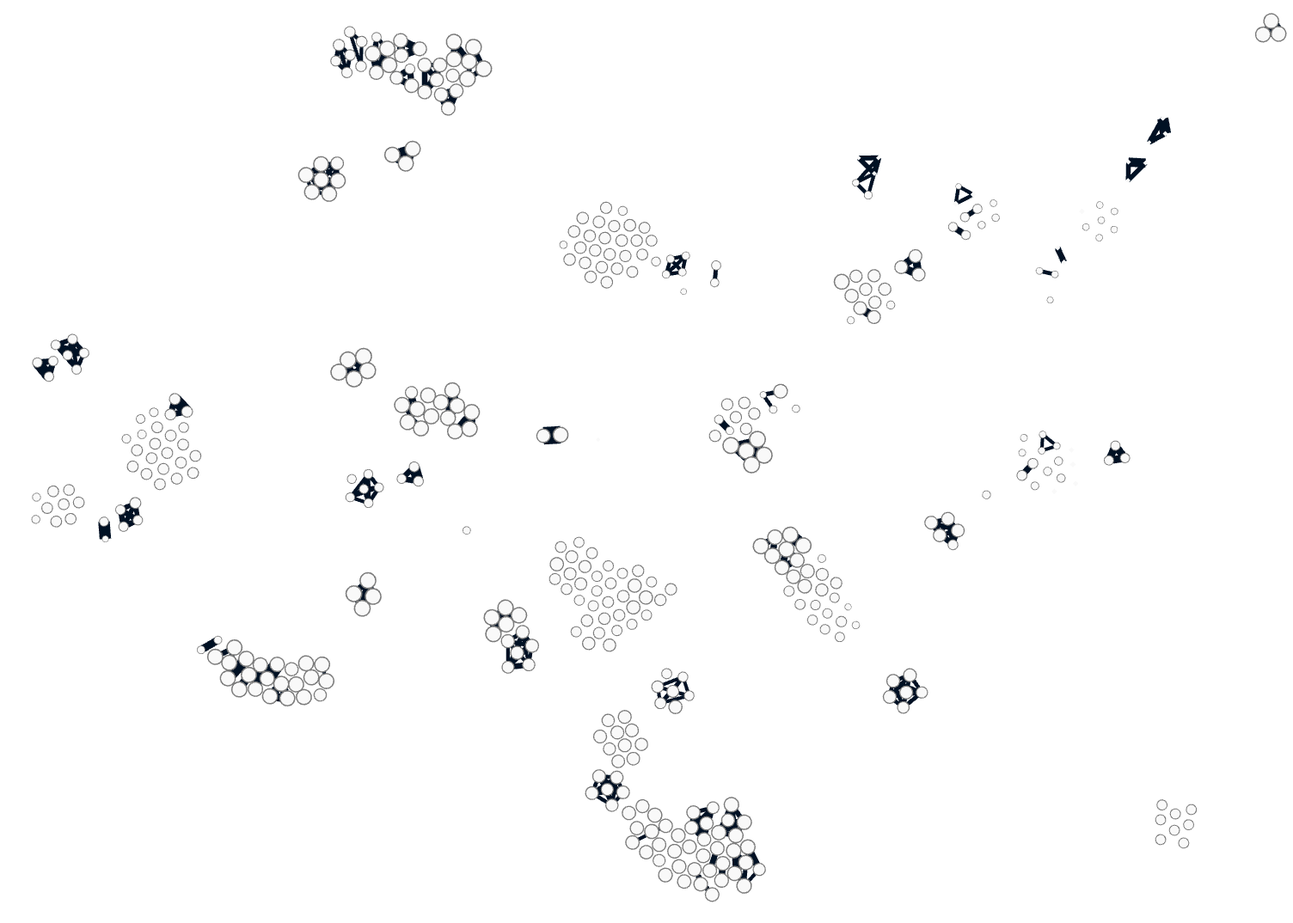
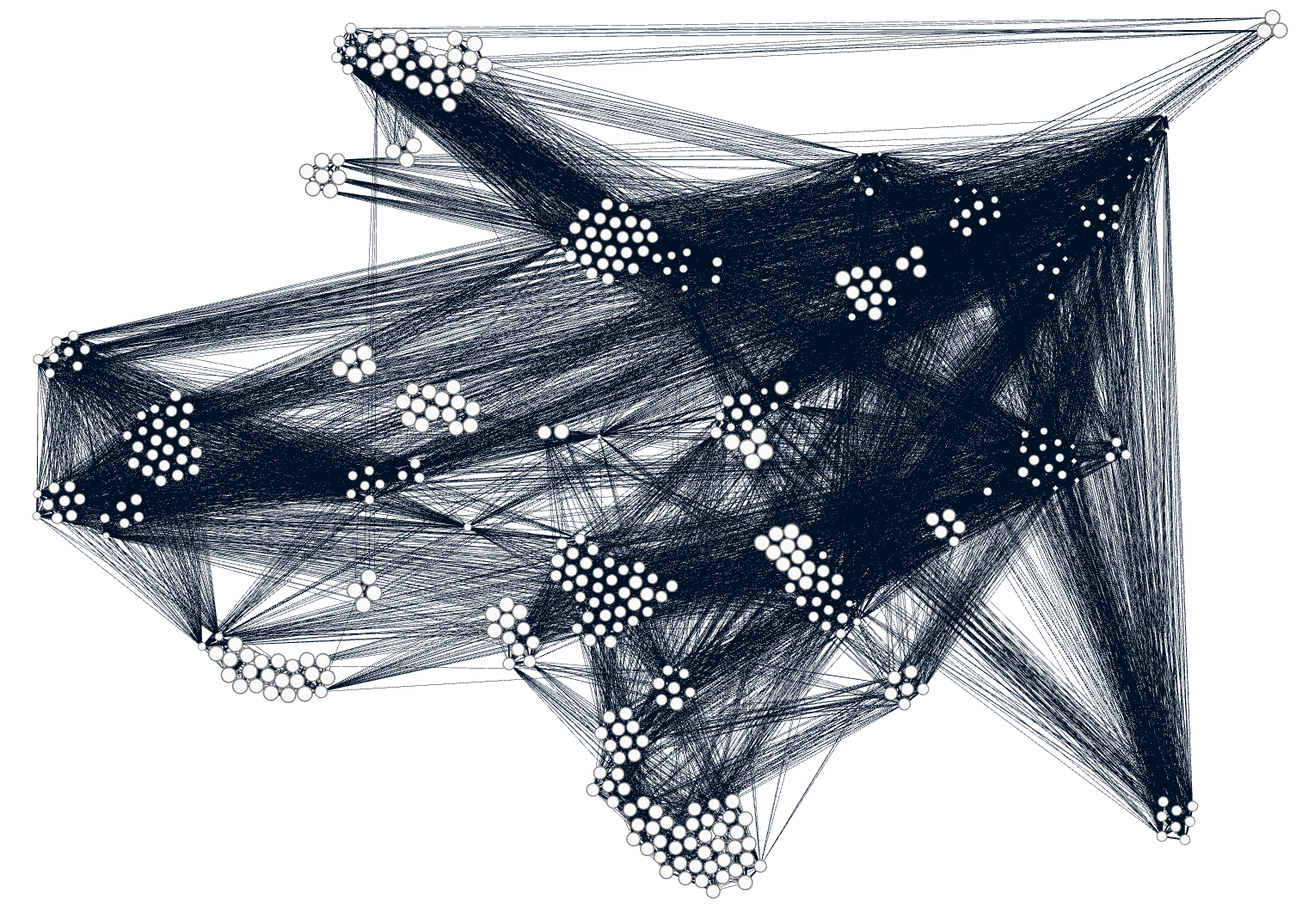
wk

diff --git a/mechanism_lumping/infomap.tex b/mechanism_lumping/infomap.tex
@@ -1,6 +1,6 @@
 
 \section{Graph based reduction}
-It has been shown that the graph-based representation of the atmospheric chemical network proves useful in both the visual and mathematical analysis of simulation results (\autoref{chaptervis,chaptermetric}). It therefore follows that the network representation of mechanism may also have its uses in the simplification, and thus reduction, of chemical complexity.  This section will outline the basic methods of modularity (or clustering) detection with the graph framework, the different methods in which this may be done and eventually apply it to a case example representative of the chemistry within the London environment. 
+It has been shown that the graph-based representation of the atmospheric chemical network proves useful in both the visual and mathematical analysis of simulation results (\autoref{chaptervis,chaptermetric}). It therefore follows that the network representation of mechanism may also have its uses in the simplification, and thus reduction, of chemical complexity.  This section will outline the basic methods of modularity (or clustering) detection with the graph framework, the different methods in which this may be done and eventually apply it to a case example representative of the chemistry within the London environment.
 
 
 
@@ -25,26 +25,26 @@ We can use the graph structure to analyse changes of reactions or relationships 
 
 
  \subsection{Types of Graph Clustering}
-Unlike vector clustering algorithms (such as DBSCAN, UMAP and K-means, as discussed in SEV\autoref{veccluster}), graph clustering metrics do not rely on the spatial orientation of the data to determine groups or `clusters'. Instead these may partition the network into segments, group nodes by structual equivalence or explore the `flow' dynamics of the network. 
+Unlike vector clustering algorithms (such as DBSCAN, UMAP and K-means, as discussed in SEV\autoref{veccluster}), graph clustering metrics do not rely on the spatial orientation of the data to determine groups or `clusters'. Instead these may partition the network into segments, group nodes by structual equivalence or explore the `flow' dynamics of the network.
 
 Algorithms such as Label Propagation \citep{labelprop} and spinglass \citep{spinglass} work by randomly assigning nodes with a property or label. This property is then transferred to its neighbours. Other algorithms such as the nested block model can decompose a graph into clusters of like properties, \citep{communitygraph}. These are often grouped in the form of topological equivalence which can be either:
 \begin{itemize}
     \item[-]\textit{structual equivalence} - vertices are similar if they have like neighbours, \citep{strueq}.
-    \item[-]\textit{regular eqivalence} - retrieves nodes with similar connection patterns (e.g. parent - child node hierarchicl structures), \citep{regequiv}. 
+    \item[-]\textit{regular eqivalence} - retrieves nodes with similar connection patterns (e.g. parent - child node hierarchicl structures), \citep{regequiv}.
 \end{itemize}
-This works in a similar way to an autoencoder (ref auto \autoref{section}), where topological similarities are used to simplify (or encode) the network structure, in a way which it may be again decoded. 
+This works in a similar way to an autoencoder (ref auto \autoref{section}), where topological similarities are used to simplify (or encode) the network structure, in a way which it may be again decoded.
 
-Finally there exist a set of `flow' based models which use the network dynamics to determine the modularity of a network. These are discussed below. 
+Finally there exist a set of `flow' based models which use the network dynamics to determine the modularity of a network. These are discussed below.
 
 \subsection{Walk/Flow Based Clustering}
-As temporal networks result in a change (magnitude, or type) of relationships between items. Such changes in the network dynamics are encoded within the edges of a graph. To account for this, the primary function of random walk or `flow' algorithms is to capture the the changes between the real-world systems represented by the network. 
+As temporal networks result in a change (magnitude, or type) of relationships between items. Such changes in the network dynamics are encoded within the edges of a graph. To account for this, the primary function of random walk or `flow' algorithms is to capture the the changes between the real-world systems represented by the network.
 
-In (SECTION SILHO) the silhouette coefficient was discussed. This compares the vector position of clusters with regards to the distance of data points between them. Translating this to the graph framework, topological (graph) clustering defines a cluster, or module, as a region with a greater inter-cluster degree or density\footnote{The number of links or edges between items in the same group.} compared to their intra-cluster density\footnote{The number of edges to other clusters}. This results in a system, that if sorted by group, has more links between elements of the same group than with those in other groups - this can be seen within the sorted adjacency matrix in (Xhaapter 1 REF). 
+In (SECTION SILHO) the silhouette coefficient was discussed. This compares the vector position of clusters with regards to the distance of data points between them. Translating this to the graph framework, topological (graph) clustering defines a cluster, or module, as a region with a greater inter-cluster degree or density\footnote{The number of links or edges between items in the same group.} compared to their intra-cluster density\footnote{The number of edges to other clusters}. This results in a system, that if sorted by group, has more links between elements of the same group than with those in other groups - this can be seen within the sorted adjacency matrix in (Xhaapter 1 REF).
 
-Since flow based methods are more interested in the network dynamics, than structure, the number of links or density is replaces with the time a random `walker' spends `trapped' between a set of nodes. A real-wold analogy would be to view the flow of water in a slowly filling river, \autoref{fig:hpp}. Here a walker (or water molecle) traverses the entirety of the river/graph network, occasionally getting trapped between a set of nodes. Here although the water is still moving, it ends up spending more time going back and fort between a set of nodes, than exploring the rest of the network. It is these regions of stalled progress that form our network clusters.  
+Since flow based methods are more interested in the network dynamics, than structure, the number of links or density is replaces with the time a random `walker' spends `trapped' between a set of nodes. A real-wold analogy would be to view the flow of water in a slowly filling river, \autoref{fig:hpp}. Here a walker (or water molecle) traverses the entirety of the river/graph network, occasionally getting trapped between a set of nodes. Here although the water is still moving, it ends up spending more time going back and fort between a set of nodes, than exploring the rest of the network. It is these regions of stalled progress that form our network clusters.
 
 \begin{figure}[H]
-    \centering 
+    \centering
     \adjustbox{trim=0 2cm 0 1.4cm,clip}{\includegraphics[height=\textwidth,angle=-90]{fig/hpp-plans.pdf}}
 \caption{\textbf{The proposed plans for the change of the UK National Watersports Centre Whitewater Course (Holme Pierrepont).} Walk based clustering is analogous to the movement of a river. Clusters (or modules) are identified as areas where the `flow' becomes trapped, much like water in the pools immediately following a hydraulic jump. Source: \cite{hpp} }\label{fig:hpp}
 \end{figure}
@@ -54,19 +54,19 @@ The Loudvain is a hierarchical clustering algorith, this means that after each i
 
 Similar to the Loudvain algorithm is the \cite{infomap}'s Infomap. Here each node within the network is assigned its own module. These are then perturbed to neighbouring nodes should such a mode lead to a decrease in the map equation (a flow-based method which operates on system dynamics rather than structure - \citep{mapeqn}). The process is repeated until no further reductions are possible.
 
-TWO LEVEL 
+TWO LEVEL
 
 MULITLEVERL
 
 %Clustering algorithms seek to capture the intuitive notion that nodes should be connected to many nodes in the same community (intra-cluster density) but connected to few nodes in other communities (inter-cluster sparsity). We compare four clustering algorithms in this study. Each scales to networks of greater than one million nodes.
 
 % https://www.ncbi.nlm.nih.gov/pmc/articles/PMC4938516/
-% 
+%
 % The Infomap algorithm [18] is based on the principles of information theory. Infomap characterizes the problem of finding the optimal clustering of a graph as the problem of finding a description of minimum information of a random walk on the graph. The algorithm maximizes an objective function called the Minimum Description Length [19, 20], and in practice an acceptable approximation to the optimal solution can be found quickly. Previous studies have found Infomap’s performance to remain stable for networks with up to 100,000 nodes [3].
 
 % Modularity
 % The modularity of a graph compares the presence of each intra-cluster edge of the graph with the probability that that edge would exist in a random graph [23, 24]. Although modularity has been shown to have a resolution limit [25], some of the most popular clustering algorithms use it as an objective function [15, 16]. Modularity is given by Eq (1),
-% 
+%
 % ∑k(ekk−a2k
 
 % Analogously, the field-of-view limit marks an upper limit on the size of communities that Louvain and Infomap can detect [36]. Infomap’s lack of a resolution limit causes it to suffer acutely from the field-of-view limit and identify smaller clusters than Louvain identifies. In this way, the resolution limit and the field-of-view limit favor Louvain over Infomap in our experiments with large communities.
@@ -75,7 +75,7 @@ MULITLEVERL
 
 Although there are a wide range of availiable clustering technques, there are several reasons that the infomap method works well. The main two criterions in selecting an algorithm for grouping atmospheric reactions are that the algorithm can deal with a directed network (chemistry is directional) and that it needs to be able to handle temopral data (since concentration and photolysis conditions change with time, this plays an important role within the system). The infomap algorithm implements a directed approach, improving on the core loudvain core algorithm it is built upon. In addition to this it is able to implement a multi-level clustering approach which has been shown to capture nodel-layer interaction in temporal networks,\citep{infointermittent}.
 
-Using the intial conditions for London from the last chapter (\autoref{tab:icsmetric}), a spun up simulation run with the CRI v2.2 mechanism was run. Since this does not contain \ch{c5h11cho}, MVK, MACR or Limonene, these species are omitted from the initialisation. Following a spinup to steady state, a graph is generated for noon after 1 day of an unconstrained run. The infomap algorithm is then applied to the generated graph. 
+Using the intial conditions for London from the last chapter (\autoref{tab:icsmetric}), a spun up simulation run with the CRI v2.2 mechanism was run. Since this does not contain \ch{c5h11cho}, MVK, MACR or Limonene, these species are omitted from the initialisation. Following a spinup to steady state, a graph is generated for noon after 1 day of an unconstrained run. The infomap algorithm is then applied to the generated graph.
 
 The coursest level of clustering is shown in \autoref{fig:iml1}. Here nodes are coloured by their cluster, and approximate polygon hulls surround the nodes closest to the median cluster centre. Much like the findings in (CHAPTER STRT), it is seen that different sections of the graph network repesent different types of chemistry - for example hull 4 contains aromatic species, hull 2 contains the products of linear alkanes and hull 3 contains the terpines.
 
@@ -87,7 +87,7 @@ The coursest level of clustering is shown in \autoref{fig:iml1}. Here nodes are 
     \label{fig:iml1}
 \end{figure}
 
-Since the infomap provides a finer level of clustering which has originated from this, it is important to evaluate this. Using a graph-hull approach, as in \autoref{fig:iml1}, becomes cluttered and unusable. Instead a bubble plot may be used. Although this sacrafices the ability to view links, it allows for the complete overview of the hierarchical structure. In \autoref{fig:imbubble} shows the nested structure of each clustered group. In an electronic mail correspondance with \cite{correspondance} the origin of the naming convention of reduced species was explained. Using this, individual nodes are categoriesed by their prefixes. This allows the further categorisation of the chemistry withich has been grouped into a category. 
+Since the infomap provides a finer level of clustering which has originated from this, it is important to evaluate this. Using a graph-hull approach, as in \autoref{fig:iml1}, becomes cluttered and unusable. Instead a bubble plot may be used. Although this sacrafices the ability to view links, it allows for the complete overview of the hierarchical structure. In \autoref{fig:imbubble} shows the nested structure of each clustered group. In an electronic mail correspondance with \cite{correspondance} the origin of the naming convention of reduced species was explained. Using this, individual nodes are categoriesed by their prefixes. This allows the further categorisation of the chemistry withich has been grouped into a category.
 
 \begin{figure}[H]
   \centering
@@ -113,19 +113,19 @@ Branch 3 contains the monoterpenes. This can be seen in 3.\{2,5\} ($\alpha-$pine
 The \emph{\ce{RIxxO2}} prefix was originally used for the peroxy radicals iso (`i-') alkanes and their cabonyl products - branches 3.\{1,4\}, however they tend to mainly be used for smaller branched precursors which produce acetone (\ch{CH3COCH3}) as a majour product in their oxidation chain (branch 3.1). As acetone is a particularly unreactive carbonyl, the fact that it is water soluble means that they may be washed out of the atmosphere by precipitation, \citep{acetonerain}. This may has been seen to interrupt the ozone formation process under regional-scale photochemical smog conditions in north-western Europe [ - from M.Jenkins PAPER? do you know what this is ].
 
 
-Finally, since the CRI index is representative of the oxidation potential it is common to see speacies containing the CRI value within a cluster. Cluster typically contain a combination of carbonyl (\ch{R(=O)R'},\emph{CARBxx}), hydroperoxy (\ch{R-OOH},\emph{RxxOOH}), peroxy (\ch{ROO.}, \emph{\ce{RxxO2}}) and nitrate (\ch{R-ONO2},\emph{\ch{NO3}}) groups. For the lumped species, it can be common for an \ch{RO2} species to react with NO or \ch{NO3} to produce a carbonyl with a CRI index of two values lower. This can be attributed to the loss of an oxygen and the formation of a double bond? (what is the long reaction for the MCM, it seems les direct). Similarly a reaction with NO or \ch{ho2} can produce a hydroperoxy or nitrate species, which in turn react with OH to produce the an equivalent carbonyl.
+Finally, since the CRI index is representative of the oxidation potential it is common to see speacies containing the CRI value within a cluster. Cluster typically contain a combination of carbonyl (\ch{R(=O)R}',\emph{CARBxx}), hydroperoxy (\ch{R-OOH},\emph{RxxOOH}), peroxy (\ch{ROO.}, \emph{\ce{RxxO2}}) and nitrate (\ch{R-ONO2},\emph{\ch{NO3}}) groups. For the lumped species, it can be common for an \ch{RO2} species to react with NO or \ch{NO3} to produce a carbonyl with a CRI index of two values lower. This can be attributed to the loss of an oxygen and the formation of a double bond? (what is the long reaction for the MCM, it seems les direct). Similarly a reaction with NO or \ch{ho2} can produce a hydroperoxy or nitrate species, which in turn react with OH to produce the an equivalent carbonyl.
 
 
 %% good paper for introduction acetone
 
 \subsubsection{Inter and Intra links}
- Typically the quality of clustering can be assessed using the adjacency matrix of a graph. In sortting the axis by cluster groups, squares of high density inter connections should become apparent in an adjacency heatmap. Unfortunately for an atmospheric chemistry mechanism, the size and sparseness of a graph, makes this an infeisable method to visually acess the nodcluster node ratios. Instead we can adapt the nodes presented by the treemap in \autoref{fig:imap2page} and replacing the hierarchical structure, with one representing the original graph. 
+ Typically the quality of clustering can be assessed using the adjacency matrix of a graph. In sortting the axis by cluster groups, squares of high density inter connections should become apparent in an adjacency heatmap. Unfortunately for an atmospheric chemistry mechanism, the size and sparseness of a graph, makes this an infeisable method to visually acess the nodcluster node ratios. Instead we can adapt the nodes presented by the treemap in \autoref{fig:imap2page} and replacing the hierarchical structure, with one representing the original graph.
 
 -  greatest group, dark
 
 - inter group to green - these are central on graph plot. important smaller
- 
- 
+
+
    \begin{figure}[H]
      \centering
      \includegraphics[width=1.1\textwidth]{fig/treeplot.pdf}
@@ -135,10 +135,10 @@ Finally, since the CRI index is representative of the oxidation potential it is 
 
 
 
- 
+
 
  \subsubsection{Number of clusters}
-Sometimes it may be required to have slightly smaller or larger numbers of clusters. The infomap algorithm contains a \emph{preffered number of modules} parameter which can either terminate the algorithm early, should the number be reached, or continue splitting if it has not. Since we are interesed in merging smaller numbers of nodes together, this can be seen as a useful parameter to have. However, in selecting a number too large, (e.g. 200 clusters, which should result in groups of 2-3 nodes), it is seen that much of the hierarchical information from the network is lost, \autoref{fig:im200}. It is for this reason that forcing the number of nodes without reason will not be attempted. 
+Sometimes it may be required to have slightly smaller or larger numbers of clusters. The infomap algorithm contains a \emph{preffered number of modules} parameter which can either terminate the algorithm early, should the number be reached, or continue splitting if it has not. Since we are interesed in merging smaller numbers of nodes together, this can be seen as a useful parameter to have. However, in selecting a number too large, (e.g. 200 clusters, which should result in groups of 2-3 nodes), it is seen that much of the hierarchical information from the network is lost, \autoref{fig:im200}. It is for this reason that forcing the number of nodes without reason will not be attempted.
 
 
   \begin{figure}[H]
@@ -168,4 +168,3 @@ Sometimes it may be required to have slightly smaller or larger numbers of clust
 
 
 %
-

diff --git a/mechanism_lumping/nlp.tex b/mechanism_lumping/nlp.tex
@@ -2,12 +2,12 @@
 
 \section{Reduction through Lifetime}
 
-Conventionally 
+Conventionally
 
 
 
 \subsubsection{Calculating the lifetime}
-Within models a species lifetime is regarded as the time taken for its concentration to halve [ref]. This works on the assumption that the species is not produced, and that rate coefficients and other constants remain constant. For a first order decay of sample \autoref{eqn}, we can represent the decay using \autoref{decay}, showing that the half life is independent of initial concentration. 
+Within models a species lifetime is regarded as the time taken for its concentration to halve [ref]. This works on the assumption that the species is not produced, and that rate coefficients and other constants remain constant. For a first order decay of sample \autoref{eqn}, we can represent the decay using \autoref{decay}, showing that the half life is independent of initial concentration.
 
 \begin{equation}
 A \rightarrow{^k} B
@@ -20,13 +20,13 @@ s(t) = a_0 \exp(-kt) \\
 $$linearised this gives$$
 \ln (\frac{a(t)}{a_0}) = -kt
 $$ after $\tau_{1/2}$ the concentration is equal to $a_0/2$ of initial rate $a_0$, which gives $$
-\ln(\frac{\frac{a_0}{2}}{a_0}) = \ln(\frac{1}{2}) = \ln(2^{-1}) = -\ln2 = k\tau_{1/2} 
+\ln(\frac{\frac{a_0}{2}}{a_0}) = \ln(\frac{1}{2}) = \ln(2^{-1}) = -\ln2 = k\tau_{1/2}
 $$$$
 \tau_{\frac{1}{2}} = \frac{\ln 2}{k}
 \label{decay}
 \end{equation}
 
-In species of the first order only, this may simplified to 
+In species of the first order only, this may simplified to
 \begin{equation}
 a(t) = a_0 \exp (t  \sum_j k_j )
 $$ and therefore the half life may be written as the reciprocal sum of rate coefficients: $$
@@ -37,22 +37,22 @@ and is how lifetime is calculated for photochemical species [ref! pillin and sea
 
 \begin{equation}
 \tau_1 = - \frac{1}{J_{ii}}
-\end{equation} 
+\end{equation}
 
-This value will usually be negative unless a species does not contain a consuming reaction, then it will be zero. 
+This value will usually be negative unless a species does not contain a consuming reaction, then it will be zero.
 
 
-The xxxxx method of reduction consists of the isolation of species with similar lifetimes and reactions as a means of lumping. In doing so the ... etc 
+The xxxxx method of reduction consists of the isolation of species with similar lifetimes and reactions as a means of lumping. In doing so the ... etc
 
 
 \subsection{Comparing Magnitude and Direction}
-Since the photolysis reactions in a model change the resultant rates, and thus flux of a species depending on the azimuthal angle related to the time of day, we not only want to compare species with the same magnitude, they also need to match the profile as they change. To do this we may represent all pariwise species matches on a latent space representing the size and angle between their temporal vectors. This is done through using the euclidean distance on the $x$ axis, and cosine distance $y$ on the $y$. 
+Since the photolysis reactions in a model change the resultant rates, and thus flux of a species depending on the azimuthal angle related to the time of day, we not only want to compare species with the same magnitude, they also need to match the profile as they change. To do this we may represent all pariwise species matches on a latent space representing the size and angle between their temporal vectors. This is done through using the euclidean distance on the $x$ axis, and cosine distance $y$ on the $y$.
 
 \subsubsection{Euclidian distance}
 This is the simplest method of vector comparison and works by calculating the distance between all points in two vectors. For the vectors
 
 \begin{equation}
-v1 = [ a,b,c, \dots n ] 
+v1 = [ a,b,c, \dots n ]
 $$$$
 v2 = [ i,j,k, \dots z ]
 \end{equation}
@@ -68,9 +68,9 @@ This transformation converts the straight line distance between each vector into
 
 APPLICA"tiion
 
-\subsubsection{Cosine Distance} 
+\subsubsection{Cosine Distance}
 
-Similarly if we wish to calculate the angle between two vectors we may use the cosine difference. In starting with the definition of the dot product 
+Similarly if we wish to calculate the angle between two vectors we may use the cosine difference. In starting with the definition of the dot product
 
 \begin{equation}
 v1 \cdot v2 = \|v1\|\|v2\| \cos \theta
@@ -84,27 +84,26 @@ Since this does not work for the triangle ? inequality, we need to normalise eac
 
 \subsection{Temporal Lifetime Vector Comparison}
 
-To compare a species diurnal profile with its absolute lifetime we can plot the cosine and eudlidian distance against eachother. In this subsection compute the euclidean and cosine distances for all remaining reaction pairs (88410 pairs) for a single simulation. We start by looking that the species density profiles, \autoref{fig:density2}. Here we can see that most of the species within our mechanism fall under two peaks. The first is a peak of great similarity between pairs of species (close to 1), where both the diurnal profile and concentration differences change simultaniously, The other contains species with a simiar dirunal profiles, that do not change at the same rate as eachotehr. In general the euclidean distances are smaller than the cosine distances, suggesting a greater concenration change between pairs of species with the same profile. 
+To compare a species diurnal profile with its absolute lifetime we can plot the cosine and eudlidian distance against eachother. In this subsection we compute the euclidean and cosine distances for all remaining reaction pairs (88410 pairs) for a single simulation. We start by looking that the species density profiles, \autoref{fig:density2}.
+
+THIS Is the WRONG W|Ay ON KDE - matches distribution on plot!
+
+Here we can see that most of the species within our mechanism fall under two peaks. The first is a peak consists of species which are mutally different in both diurnal profile and concentration change. This would be seen in species with inverse changes depending on the time of day. Although inorganic species have been ommited, an obvious candidate for this peak would be the similarity between NO and \ch{no2}. The other large peak consists of species which have similar
+
+
+ The other contains species with a simiar dirunal profiles, that do not change at the same magnitude as eachother. In general the euclidean distances are smaller than the cosine distances, suggesting a greater concenration change between pairs of species with the same concentrtion profile shape.
 
 
 
-\begin{figure}
+
+\begin{figure}[H]
     \centering
 \includegraphics[width=.7\textwidth]{fig/metric_density.png}
 \caption{Gaussian Kernel Density Estimate plot showing the distributions present for the \{0,1\} scaled euclidean and cosine distances.}
 \label{fig:density2}
 \end{figure}
 
-
-
-and plot them on separate axis, \autoref{fig:morig}. Here the colour represents the geometric mean of both normalised values. Due to the large number of 
-
-
-
-
-Since there are $n^2$ different combinations, this process can be lengthy to compute. Moreover the number of nodes present makes it difficult to visually determine which couplets to lump together, especially when they are overlaying eachother, as in \autoref{fig:metric}. To overcome this we apply a force graph simulation to each node. Here a strong force pulls them towards their true location, whist a collision/repulsive force ensures that there exists no overlap between nodes. Although some information loss may be incurred this way, it does enable us to interactively determine which pairs belong to which points.   
-
-Plotting the data this way provides an approximate view of how lifetimes change within the system. \autoref{fig:density2} shows the distribution of values across both metrics. Here we see that although there is some difference the cosine difference can be used as an indicator for exploring further. This is useful since the cosine difference is a matrix operation and can produce near instant results in the form of the output relationship matrix. The euclidean distance however must be computed for each coupling individually as it requires taking the difference between the temporal lifetime arrays of each species. This means that rather than computing the euclidean distance for all permutaions of species, we can compute only those whose cosine distances suggest potentially promising results.  
+Next it is possible to compare both distance metrics on an $x-y$ plot -  \autoref{fig:morig}. As many species hace similar lifetimes, these are often situated within the same temporal space, which can make it hard to visually or interactively separate them. To overcome this, it is possible to convert the scatter plot into a force-simulation, \autoref{fig:metric}. Here nodes repulse eachother, and are attracted to their original location. This expands the graph, and prevents overlapping nodes. In doing so it is possible to interactively query the paris of nodes which are represented by each point.
 
 
 
@@ -112,15 +111,15 @@ Plotting the data this way provides an approximate view of how lifetimes change 
 \begin{subfigure}[t]{.5\textwidth}
   \centering
   \includegraphics[width=\textwidth]{fig/metric-1.png}
-  \label{fig:morig}
   \caption{Original}
+  \label{fig:morig}
 \end{subfigure}%
 \begin{subfigure}[t]{.5\textwidth}
 \includegraphics[width=\textwidth]{fig/metric.png}
+\caption{No-overlap}
 \label{fig:metric}
-\caption{Interactive, non overlapping plot of normalised euclidian distance across the x axis against the cosine distance on the y. The colouring is the geometric mean between them.}
 \end{subfigure}
-
 \caption{Showing the evolution from the original overlaid locations, \autoref{fig:morig} to the slightly more accessible (interactively) \autoref{fig:metric}}
 \end{figure}
 
+Using a Kernel density plot it is seen that both cosine and euclidean distances have a similar distribution of points for the chosen simulation. The agreement of both metrics suggests a similarlarity between both the lifetime values and their change over time for a simulation. The distances locate a set of species

diff --git a/mechanism_lumping/res.tex b/mechanism_lumping/res.tex
@@ -1,8 +1,55 @@
 
-\section{Results: Part I}
+\section{Results}
 
-In order to get a representation of the mechanism we run 300 randomly initiated scenarios, with the experimental design capable of accepting more data at a later point. We then extract the lifetimes from the diagonal of the jacobian, and convert them into vectors representing the duration of all 3 days for each simulation. 
+In order to get a representation of the mechanism we run 300 randomly initiated scenarios. The experiemental setup is one such that it is possible to add more datapoints at a later date. From each simulation the no diagonal elements of the jacobian are used to construct a graph representative of the aggregated hourly means of the simulation output. Each of these graphs is then run through the infomap algorithm and a grouping/clustering produced. To select the best possible grouping, each infomap is run 100 times, where the result with the best fit (shortest codelength) is taken - this is an optional parameter on the algorithm.
+
+\subsection{The co-grouping network}
+
+To aggregate the groupings produced by each algorithm an $n\times n$ matrix is created for each of the $n$ species in the mechanism. This is treated as a graph relational matrix, whereupon if species A is in the same group as species B, then a link (or value +1) is added to the [A,B] (A\ce{->}B) and [B,A] (B\ce{->}A) column. Using this matrix format it is possible to then generate a graph showing the relationship between species that were clustered in the same group.
+
+Using this matrix it is then possible to create a network, \autoref{fig:infomapprune}a, which can progressively be filtered to represent only the nodes which are consistently paired together. Using prior knowledge that changes in chemistry follow a daytime and nightime regeme, we select only relationships that appear in over 45\% of all the infomap runs.
+
+\begin{figure}[H]
+\begin{subfigure}[t]{.5\textwidth}
+  \centering
+  \includegraphics[width=\textwidth]{fig/c1.png}
+  \caption{Full Graph}
+\end{subfigure}%
+\begin{subfigure}[t]{.5\textwidth}
+  \centering
+  \includegraphics[width=\textwidth]{fig/c2.png}
+  \caption{>10\% of graphs}
+\end{subfigure}%\\
+
+\begin{subfigure}[t]{.5\textwidth}
+  \centering
+  \includegraphics[width=\textwidth]{fig/c3.png}
+  \caption{>20\%of graphs}
+\end{subfigure}%
+\caption{\textbf{Filetering the infomap clustering relationship matrix/graph} How the clutering relationship network changes as weak links (links between species which do not appear in many of the infomap groupings) are removed. }
+\label{fig:infomapprune}
+\end{figure}
+
+\subsection{Comparing daytime and nightime groups}
+Having determined a set of species which are continuously clustered for over 45\% of our simulation results, it is next important to see how these compare against those as part of a dirunal split. To this the output of the infomap clusters for midday and midnight are extracted. We then make use of an alluvial diagram. This is a cross between a parallel line plot and a sanky diagram and is often used to show changes in categorical data. This makes them particularly suitable for showing the changes of clusters within a temporal networks, as has been shown in \citep{alluvial}.
+
+\autoref{fig:alluvial} shows the
 
 
 
-These vectors are then compared against eachother to find species of similar lifetimes, which follow a like response to the diurnal cycle. This is done through the use of euclidian and cosine similarities. 
+
+\begin{figure}[H]
+    \centering
+\includegraphics[width=.9\textwidth]{fig/alluvial.png}
+\caption{\textbf{An alluvial diagram showing the changes in clusters between noon and midnight.} On the left are all groups that apear in >45\% of the midnight simulation results. On the right are groups which appear >45\% of the midday results. In the middle exist the clusters extracted which appear in >45\% of all runs. Here it is seen that there exist a series of species which may exist in daytime or nighttime chemistry, but do not persist between both. }
+\label{fig:alluvial}
+\end{figure}
+
+
+
+\subsection{Determining cluster suitabiltiy}
+Having selected clusters that appear for most graphs in the network, it is now important to assess the suitability of each node for being lumped together. 
+
+
+
+Similarly the lifetimes of each species are extracted from the diagonal of the jacobian matrix. Using these the euclidian and cosine similarities are calculated and can be used to determine how well suited a species pair is for beign lumped together.
